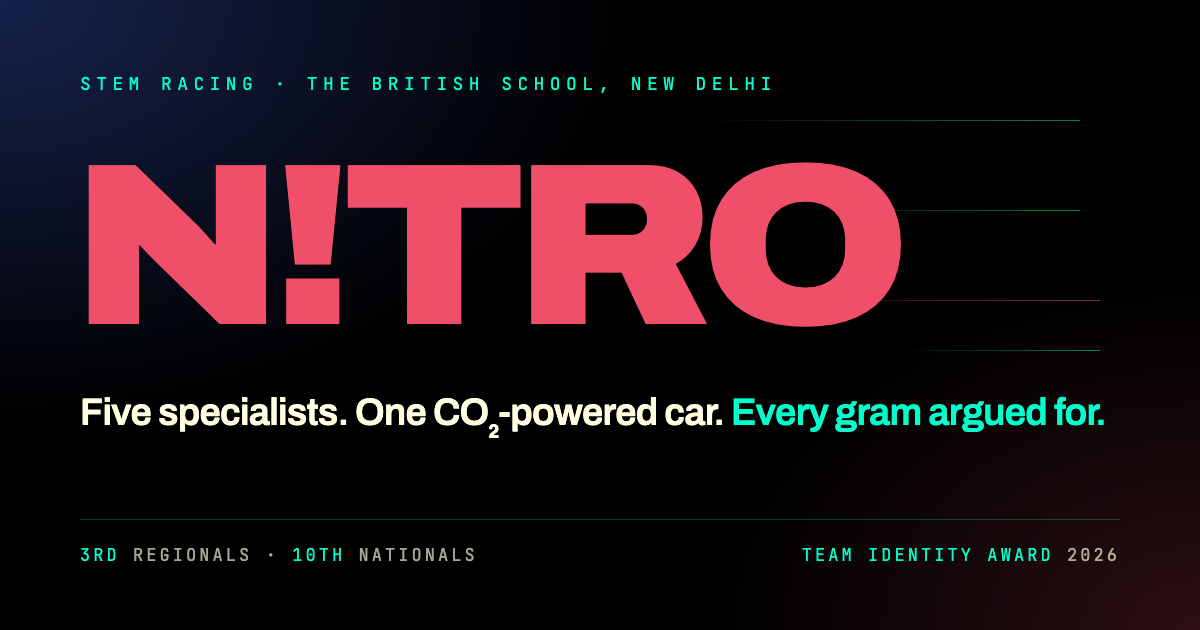
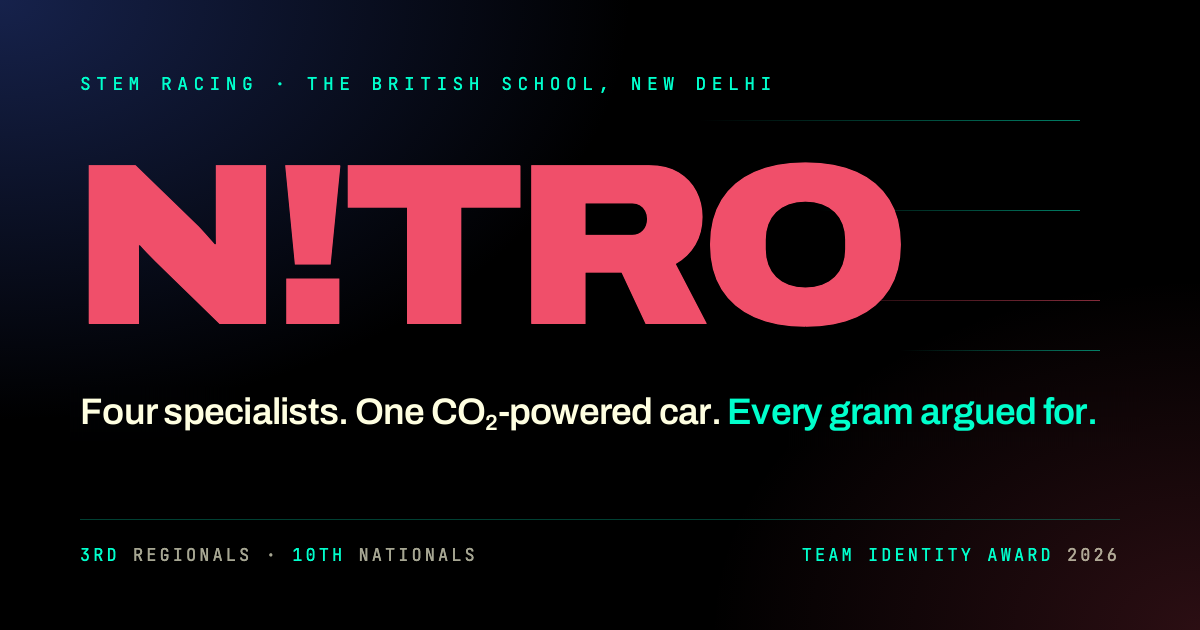
Remove Vivaan from the roster; team is now four

Changed region(s): [[0.3083, 0.6333, 0.925, 0.6937], [0.0617, 0.6333, 0.2775, 0.6937]]

diff --git a/index.html b/index.html
@@ -4,9 +4,9 @@
 <meta charset="UTF-8">
 <meta name="viewport" content="width=device-width,initial-scale=1">
 <meta name="theme-color" content="#000000">
-<meta name="description" content="Team N!TRO is a five-person STEM Racing team from The British School, New Delhi. 3rd at Regional Finals, 10th at National Finals, winners of the 2026 Team Identity Award.">
+<meta name="description" content="Team N!TRO is a four-person STEM Racing team from The British School, New Delhi. 3rd at Regional Finals, 10th at National Finals, winners of the 2026 Team Identity Award.">
 <meta property="og:title" content="Team N!TRO — STEM Racing">
-<meta property="og:description" content="Five specialists. One CO₂-powered car. Twenty metres. Every gram argued for.">
+<meta property="og:description" content="Four specialists. One CO₂-powered car. Twenty metres. Every gram argued for.">
 <meta property="og:type" content="website">
 <meta property="og:url" content="https://anayagarwal23-developer.github.io/TEAM-NITRO/">
 <meta property="og:image" content="https://anayagarwal23-developer.github.io/TEAM-NITRO/og-image.png">
@@ -515,7 +515,7 @@ p{margin:0}
     <span class="line accent" style="--d:180ms"><span>N!TRO.</span></span>
   </h1>
   <p class="hero-lead rise" style="--d:340ms">
-    Five specialists, one <b>CO₂-powered car</b> and twenty metres of track that forgives nothing.
+    Four specialists, one <b>CO₂-powered car</b> and twenty metres of track that forgives nothing.
     Every gram argued for.
   </p>
   <div class="ticker rise" style="--d:440ms">
@@ -544,7 +544,7 @@ p{margin:0}
       <p class="body rise" style="--d:240ms">
         The work runs wider than the car: research, CAD, CFD, manufacture, testing, branding, enterprise and a
         presentation that has to hold up to questioning. In August 2026, N!TRO, Energise and Radeon merged —
-        three rosters reduced to five specialists, under one rule:
+        three rosters reduced to four specialists, under one rule:
         <span class="accent">every detail must have a reason.</span>
       </p>
     </div>
@@ -616,7 +616,7 @@ p{margin:0}
   <p class="eyebrow rise">04 — The team</p>
   <div class="split end">
     <h2 class="h-lg">
-      <span class="line" style="--d:0ms"><span>Five specialists,</span></span>
+      <span class="line" style="--d:0ms"><span>Four specialists,</span></span>
       <span class="line accent" style="--d:90ms"><span>no passengers.</span></span>
     </h2>
     <p class="body rise" style="--d:160ms">
@@ -629,8 +629,7 @@ p{margin:0}
     <article class="mem rise" style="--d:0ms"><div class="mem-i">01</div><div class="mem-n">Aariv</div><div class="mem-r">Marketing Manager · Sponsorship Manager · Digital Presence Lead</div></article>
     <article class="mem rise" style="--d:60ms"><div class="mem-i">02</div><div class="mem-n">Aryeh</div><div class="mem-r">Manufacturing Engineer · Co-Design Engineer · Technical Lead</div></article>
     <article class="mem rise" style="--d:120ms"><div class="mem-i">03</div><div class="mem-n">Rehnuma</div><div class="mem-r">Design Engineer · Co-Manufacturing Engineer</div></article>
-    <article class="mem rise" style="--d:180ms"><div class="mem-i">04</div><div class="mem-n">Vivaan</div><div class="mem-r">Aerodynamics Specialist · Non-Technical Lead · Resource Manager</div></article>
-    <article class="mem rise" style="--d:240ms"><div class="mem-i">05</div><div class="mem-n">Aarna</div><div class="mem-r">Project Manager · Graphic Designer · Portfolio Head</div></article>
+    <article class="mem rise" style="--d:180ms"><div class="mem-i">04</div><div class="mem-n">Aarna</div><div class="mem-r">Project Manager · Graphic Designer · Portfolio Head</div></article>
   </div>
 
   <aside class="advisor rise" style="--d:120ms">
@@ -685,7 +684,7 @@ p{margin:0}
     <article class="lap"><time>10 MAY 2026</time><div><h3>Regional Finals</h3><p>3rd of 57, first time out. Enough to reach the National Finals.</p></div></article>
     <article class="lap"><time>MAY–JUL 2026</time><div><h3>Nationals development</h3><p>Everything rebuilt for a bigger stage: car, portfolios, pit display, presentation.</p></div></article>
     <article class="lap"><time>31 JUL–2 AUG 2026</time><div><h3>National Finals</h3><p>10th of 93. Team Identity Award won, nominated for Best Pit Display.</p></div></article>
-    <article class="lap"><time>AUG 2026</time><div><h3>Three become one</h3><p>N!TRO, Energise and Radeon stop being three teams. Five specialists remain.</p></div></article>
+    <article class="lap"><time>AUG 2026</time><div><h3>Three become one</h3><p>N!TRO, Energise and Radeon stop being three teams. Four specialists remain.</p></div></article>
     <article class="lap"><time>NEXT</time><div><h3>G-ORB!T</h3><p>A new car, a merged team, and a result of our own to beat.</p></div></article>
   </div>
 </section>

diff --git a/README.md b/README.md
@@ -11,7 +11,7 @@ Team website for **Team N!TRO**, The British School, New Delhi — competing in 
 - **Winner** — Team Identity Award, National Finals 2026
 - **Nominated** — Best Pit Display, National Finals 2026
 
-In August 2026, N!TRO, Energise and Radeon merged into one five-person team. Next car: **G-ORB!T**.
+In August 2026, N!TRO, Energise and Radeon merged into one four-person team. Next car: **G-ORB!T**.
 
 ## Contact
 
